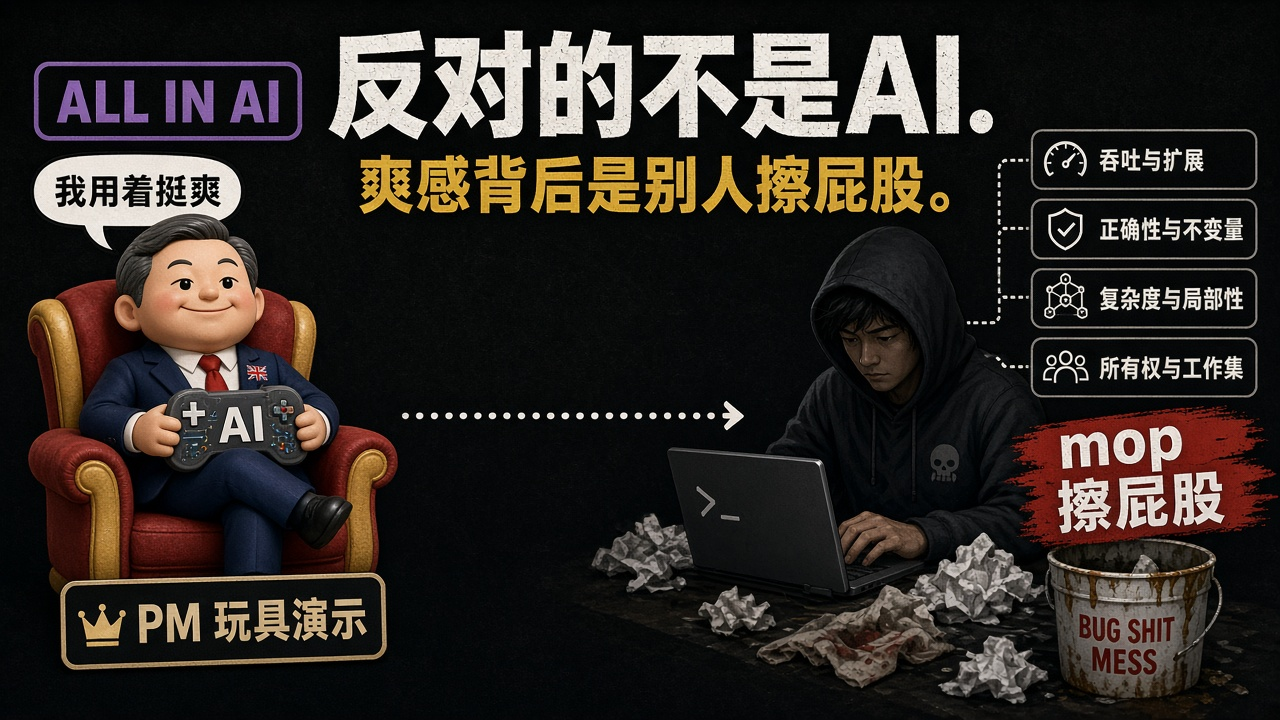
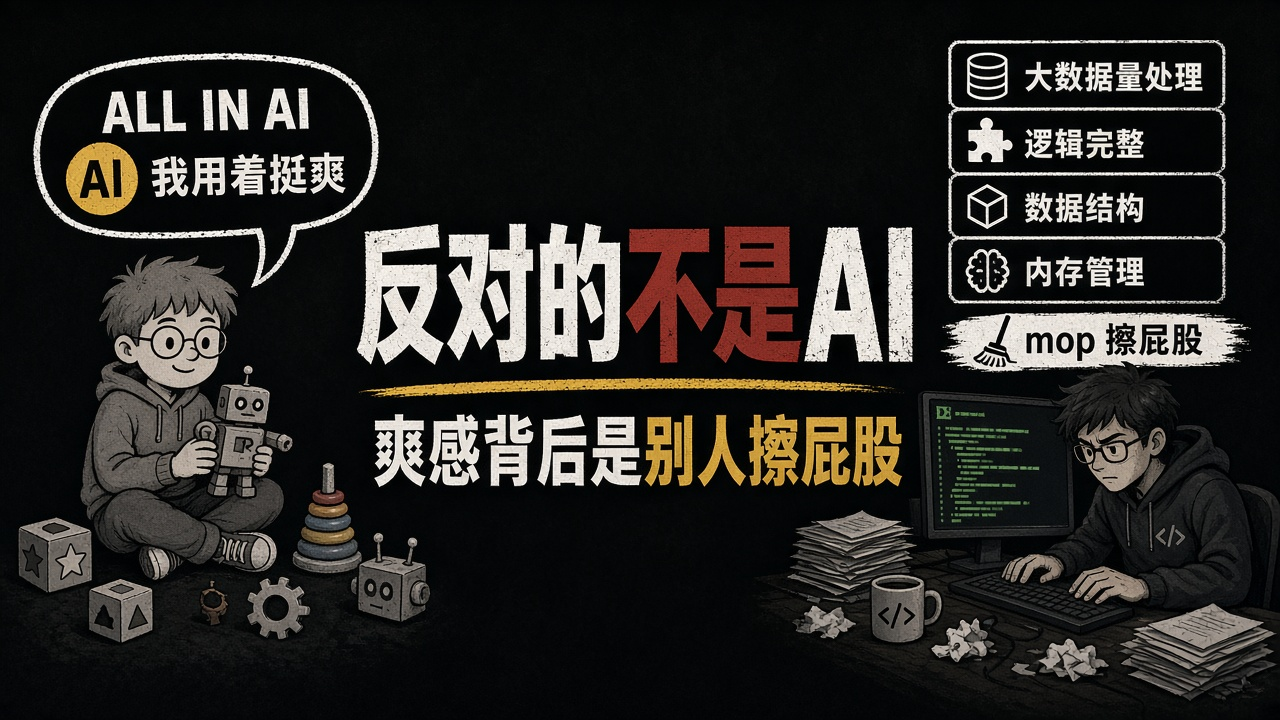
Revise gate satire: toy-vs-craft without PM identity
Overwrite gate-ai-satire-simple.jpg with the #71-era toy-vs-craft
look minus left-side PM labeling. Align caption/alt to the art.

diff --git a/src/gate.js b/src/gate.js
@@ -146,12 +146,12 @@ export function renderGate(root, { onSuccess }) {
             <img
               class="gate-satire-image"
               src="${import.meta.env.BASE_URL}notes-assets/gate/gate-ai-satire-simple.jpg"
-              alt="讽刺插画：玩具 demo 很爽；吞吐与扩展、正确性与不变量、复杂度与局部性、所有权与工作集——真功夫被质疑时开发者擦屁股"
+              alt="讽刺插画：玩具 demo 很爽；大数据量处理、逻辑完整、数据结构、内存管理——真功夫被质疑时开发者擦屁股"
               width="1280"
               height="720"
               decoding="async"
             />
-            <figcaption class="gate-satire-caption">玩具 demo 很爽；吞吐与扩展、正确性与不变量、复杂度与局部性、所有权与工作集——质疑真功夫时，总有人在擦屁股。</figcaption>
+            <figcaption class="gate-satire-caption">玩具 demo 很爽；大数据量处理、逻辑完整、数据结构、内存管理——质疑真功夫时，总有人在擦屁股。</figcaption>
           </figure>
           <div class="gate-quote-row">
             <blockquote class="gate-quote">
